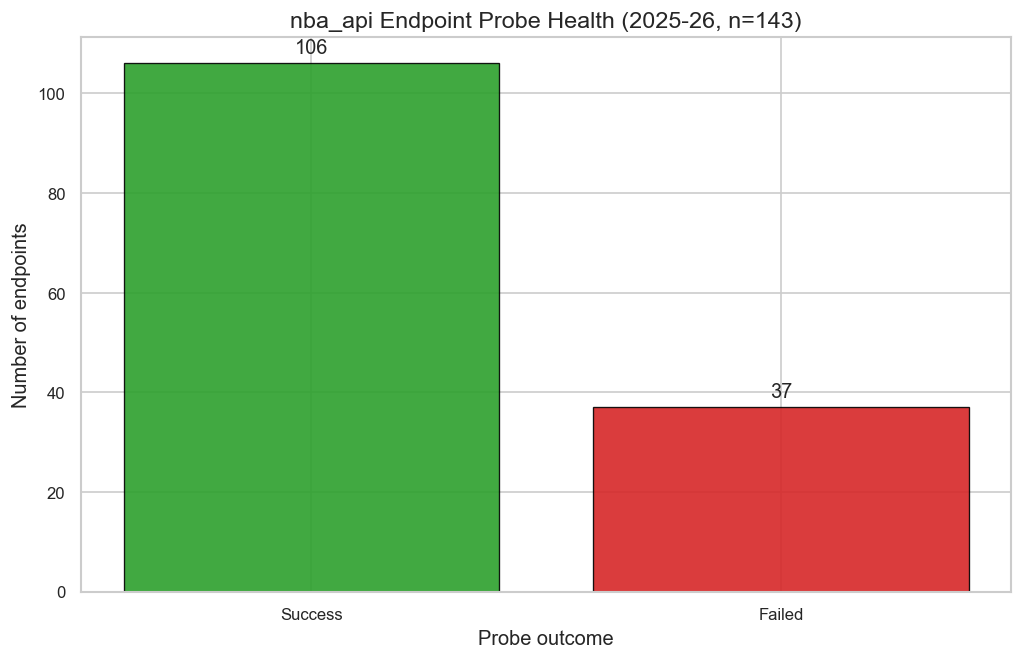
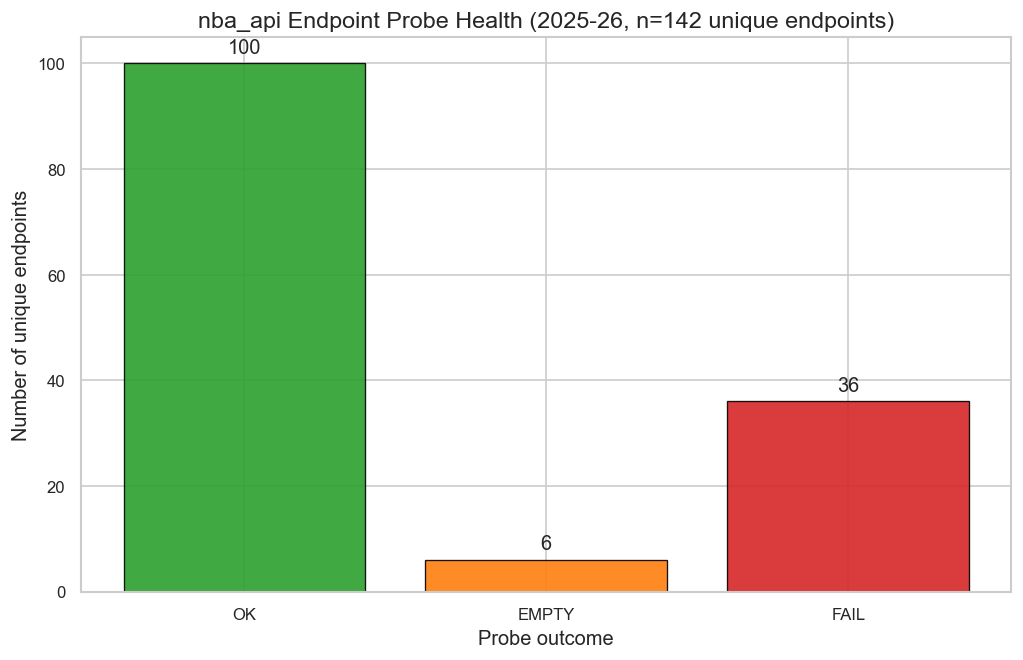
Fix foundation validation figures to match health CLI and PBP labels.

diff --git a/visual_tests/01_endpoint_health.py b/visual_tests/01_endpoint_health.py
@@ -1,68 +1,50 @@
 #!/usr/bin/env python3
-"""Visual test: bar chart of nba_api endpoint probe success vs failure."""
+"""Visual test: bar chart of nba_api endpoint probe OK / EMPTY / FAIL counts."""
 
 from __future__ import annotations
 
-import json
 import sys
 from pathlib import Path
 
 _REPO_ROOT = Path(__file__).resolve().parents[1]
-if str(_REPO_ROOT) not in sys.path:
-    sys.path.insert(0, str(_REPO_ROOT))
+if str(_REPO_ROOT / "src") not in sys.path:
+    sys.path.insert(0, str(_REPO_ROOT / "src"))
 
-from visual_tests._constants import PROBE_RESULTS_JSON, REPO_ROOT
+from nba_fit.config.settings import get_settings
+from nba_fit.data.registry import ProbeRegistry
 from visual_tests._plot_utils import (
     BAR_ALPHA,
     BAR_EDGE_WIDTH,
+    COLOR_EMPTY,
     COLOR_FAIL,
     COLOR_SUCCESS,
     new_figure,
     save_figure,
 )
 
-JSON_KEY_META = "meta"
-JSON_KEY_RESULTS = "results"
-JSON_KEY_SUCCESS = "success"
-JSON_KEY_SEASON = "season"
-JSON_KEY_TOTAL = "total"
-
-OUTCOME_SUCCESS = "Success"
-OUTCOME_FAILED = "Failed"
+OUTCOME_OK = "OK"
+OUTCOME_EMPTY = "EMPTY"
+OUTCOME_FAIL = "FAIL"
+OUTCOMES = (OUTCOME_OK, OUTCOME_EMPTY, OUTCOME_FAIL)
 
 CHART_TITLE = "nba_api Endpoint Probe Health"
 X_AXIS_LABEL = "Probe outcome"
-Y_AXIS_LABEL = "Number of endpoints"
+Y_AXIS_LABEL = "Number of unique endpoints"
 OUTPUT_STEM = "01_endpoint_health"
 
 
-def _load_probe_payload(path: Path) -> dict:
-    if not path.is_file():
-        raise FileNotFoundError(
-            f"Missing {path.name}. Run: python {REPO_ROOT / 'probe_all_nba_endpoints.py'}"
-        )
-    with path.open(encoding="utf-8") as handle:
-        return json.load(handle)
-
-
-def _count_outcomes(results: list[dict]) -> tuple[int, int]:
-    success_count = sum(1 for row in results if row.get(JSON_KEY_SUCCESS))
-    fail_count = len(results) - success_count
-    return success_count, fail_count
-
-
 def main() -> int:
-    payload = _load_probe_payload(PROBE_RESULTS_JSON)
-    meta = payload.get(JSON_KEY_META, {})
-    results = payload.get(JSON_KEY_RESULTS, [])
-    success_count, fail_count = _count_outcomes(results)
-    total_endpoints = meta.get(JSON_KEY_TOTAL, len(results))
-    season = meta.get(JSON_KEY_SEASON, "unknown season")
+    settings = get_settings()
+    registry = ProbeRegistry.load(settings=settings)
+    summary = registry.summary()
+    meta = registry.meta
+    total_endpoints = len(registry.endpoints)
+    season = meta.get("season", "unknown season")
 
     fig, ax = new_figure()
-    categories = [OUTCOME_SUCCESS, OUTCOME_FAILED]
-    counts = [success_count, fail_count]
-    colors = [COLOR_SUCCESS, COLOR_FAIL]
+    categories = list(OUTCOMES)
+    counts = [summary[c] for c in categories]
+    colors = [COLOR_SUCCESS, COLOR_EMPTY, COLOR_FAIL]
 
     bars = ax.bar(
         categories,
@@ -73,7 +55,7 @@ def main() -> int:
         alpha=BAR_ALPHA,
     )
     ax.bar_label(bars, labels=[str(c) for c in counts], padding=4)
-    ax.set_title(f"{CHART_TITLE} ({season}, n={total_endpoints})")
+    ax.set_title(f"{CHART_TITLE} ({season}, n={total_endpoints} unique endpoints)")
     ax.set_xlabel(X_AXIS_LABEL)
     ax.set_ylabel(Y_AXIS_LABEL)
     ax.set_ylim(bottom=0)

diff --git a/visual_tests/02_pbp_schema.py b/visual_tests/02_pbp_schema.py
@@ -14,6 +14,7 @@ if str(_REPO_ROOT) not in sys.path:
 
 from visual_tests._constants import (
     DEFAULT_PROBE_GAME_ID,
+    DEFAULT_SEASON,
     NBA_API_PACING_DELAY_SEC,
     NBA_API_REQUEST_TIMEOUT_SEC,
     PBP_ACTION_TYPE_COLUMN,
@@ -25,6 +26,9 @@ from visual_tests._plot_utils import BAR_ALPHA, COLOR_NEUTRAL, new_figure, save_
 
 JSON_KEY_META = "meta"
 JSON_KEY_GAME_ID = "game_id"
+JSON_KEY_SEASON = "season"
+
+UNKNOWN_ACTION_TYPE = "(unknown)"
 
 CHART_TITLE = "PlayByPlayV3 Event Type Distribution"
 X_AXIS_LABEL = "Event count"
@@ -46,12 +50,19 @@ BROWSER_HEADERS = {
 }
 
 
-def _probe_game_id() -> str:
+def _probe_meta() -> dict:
     if PROBE_RESULTS_JSON.is_file():
         with PROBE_RESULTS_JSON.open(encoding="utf-8") as handle:
-            meta = json.load(handle).get(JSON_KEY_META, {})
-        return str(meta.get(JSON_KEY_GAME_ID, DEFAULT_PROBE_GAME_ID))
-    return DEFAULT_PROBE_GAME_ID
+            return json.load(handle).get(JSON_KEY_META, {})
+    return {}
+
+
+def _probe_game_id() -> str:
+    return str(_probe_meta().get(JSON_KEY_GAME_ID, DEFAULT_PROBE_GAME_ID))
+
+
+def _probe_season() -> str:
+    return str(_probe_meta().get(JSON_KEY_SEASON, DEFAULT_SEASON))
 
 
 def _patch_nba_api_headers() -> None:
@@ -72,6 +83,11 @@ def _fetch_playbyplay_v3(game_id: str):
     return endpoint.get_data_frames()[PBP_DATASET_INDEX]
 
 
+def _normalize_action_types(series):
+    as_str = series.fillna("").astype(str).str.strip()
+    return as_str.mask(as_str == "", UNKNOWN_ACTION_TYPE)
+
+
 def main() -> int:
     try:
         import nba_api  # noqa: F401
@@ -80,6 +96,7 @@ def main() -> int:
         return 0
 
     game_id = _probe_game_id()
+    season = _probe_season()
     df = _fetch_playbyplay_v3(game_id)
 
     if PBP_ACTION_TYPE_COLUMN not in df.columns:
@@ -89,7 +106,8 @@ def main() -> int:
         )
         return 1
 
-    counts = df[PBP_ACTION_TYPE_COLUMN].value_counts()
+    action_types = _normalize_action_types(df[PBP_ACTION_TYPE_COLUMN])
+    counts = action_types.value_counts()
     if TOP_ACTION_TYPES_TO_LABEL and len(counts) > TOP_ACTION_TYPES_TO_LABEL:
         counts = counts.head(TOP_ACTION_TYPES_TO_LABEL)
 
@@ -106,7 +124,9 @@ def main() -> int:
     ax.set_yticks(list(y_pos))
     ax.set_yticklabels(counts.index.astype(str))
     ax.invert_yaxis()
-    ax.set_title(f"{CHART_TITLE} (game_id={game_id}, n={len(df)} events)")
+    ax.set_title(
+        f"{CHART_TITLE} ({season}, game_id={game_id}, n={len(df)} events)"
+    )
     ax.set_xlabel(X_AXIS_LABEL)
     ax.set_ylabel(Y_AXIS_LABEL)
 

diff --git a/scripts/run_foundation_validation.py b/scripts/run_foundation_validation.py
@@ -20,6 +20,11 @@ _FIGURES_SRC = _REPO / "reports" / "figures"
 FETCH_ENDPOINT = "leaguedashplayerstats"
 FETCH_SEASON = "2024-25"
 VISUAL_STEMS = ("01_endpoint_health", "02_pbp_action_type_distribution")
+FIGURES_REGENERATION_NOTE = (
+    "Figures regenerated: endpoint health chart uses ProbeRegistry OK/EMPTY/FAIL "
+    "(unique endpoints); PBP chart labels blank actionType as (unknown) and uses "
+    "probe meta season for the probed game."
+)
 
 if str(_REPO / "src") not in sys.path:
     sys.path.insert(0, str(_REPO / "src"))
@@ -134,6 +139,7 @@ def main() -> int:
         "",
         f"- **Started (UTC):** {_utc_now()}",
         f"- **Branch:** stage/00-foundation",
+        f"- **Figures note:** {FIGURES_REGENERATION_NOTE}",
         "",
         "## Commands",
         "",
@@ -231,6 +237,7 @@ def main() -> int:
     metrics: dict[str, object] = {
         "generated_at_utc": _utc_now(),
         "branch": "stage/00-foundation",
+        "figures_regeneration_note": FIGURES_REGENERATION_NOTE,
         "endpoint_health": endpoint_counts,
         "health_cli_exit_code": health_rc,
         "fetch_sample": {

diff --git a/visual_tests/_plot_utils.py b/visual_tests/_plot_utils.py
@@ -22,6 +22,7 @@ BAR_EDGE_WIDTH = 0.8
 BAR_ALPHA = 0.9
 
 COLOR_SUCCESS = "#2ca02c"
+COLOR_EMPTY = "#ff7f0e"
 COLOR_FAIL = "#d62728"
 COLOR_NEUTRAL = "#4c72b0"
 

diff --git a/reports/validation/foundation/RUN_LOG.md b/reports/validation/foundation/RUN_LOG.md
@@ -1,7 +1,8 @@
 # Foundation validation run log
 
-- **Started (UTC):** 2026-05-26T22:16:04Z
+- **Started (UTC):** 2026-05-28T17:09:55Z
 - **Branch:** stage/00-foundation
+- **Figures note:** Figures regenerated: endpoint health chart uses ProbeRegistry OK/EMPTY/FAIL (unique endpoints); PBP chart labels blank actionType as (unknown) and uses probe meta season for the probed game.
 
 ## Commands
 
@@ -71,18 +72,18 @@ Essential registry endpoints:
 - **Rows:** 24
 ```
 Fetching leaguedashplayerstats season=2024-25 (cache=on)...
-  from_cache=True elapsed=0.00s rows=24
+  from_cache=False elapsed=0.92s rows=24
     LeagueDashPlayerStats: 24 rows, 67 cols
-  cache: C:\Users\geric\Desktop\REPOS\propis\nba-fit-analysis\data\raw\nba_api\leaguedashplayerstats\season=2024-25\data_23cacbff7ba1.parquet
+  cache: C:\Users\geric\Desktop\REPOS\propis\nba-fit-option-c-wt\data\raw\nba_api\leaguedashplayerstats\season=2024-25\data_23cacbff7ba1.parquet
 ```
 
 ## Pytest
 
 - **Exit code:** 0
-- **Summary:** 7 passed in 5.16s
+- **Summary:** 7 passed in 4.28s
 ```
 .......                                                                  [100%]
-7 passed in 5.16s
+7 passed in 4.28s
 ```
 
 ## Visual tests
@@ -97,4 +98,4 @@ Fetching leaguedashplayerstats season=2024-25 (cache=on)...
 - Copied `01_endpoint_health.png` -> `figures/01_endpoint_health.png`
 - Copied `02_pbp_action_type_distribution.png` -> `figures/02_pbp_action_type_distribution.png`
 
-- **Finished (UTC):** 2026-05-26T22:16:38Z
+- **Finished (UTC):** 2026-05-28T17:10:46Z
